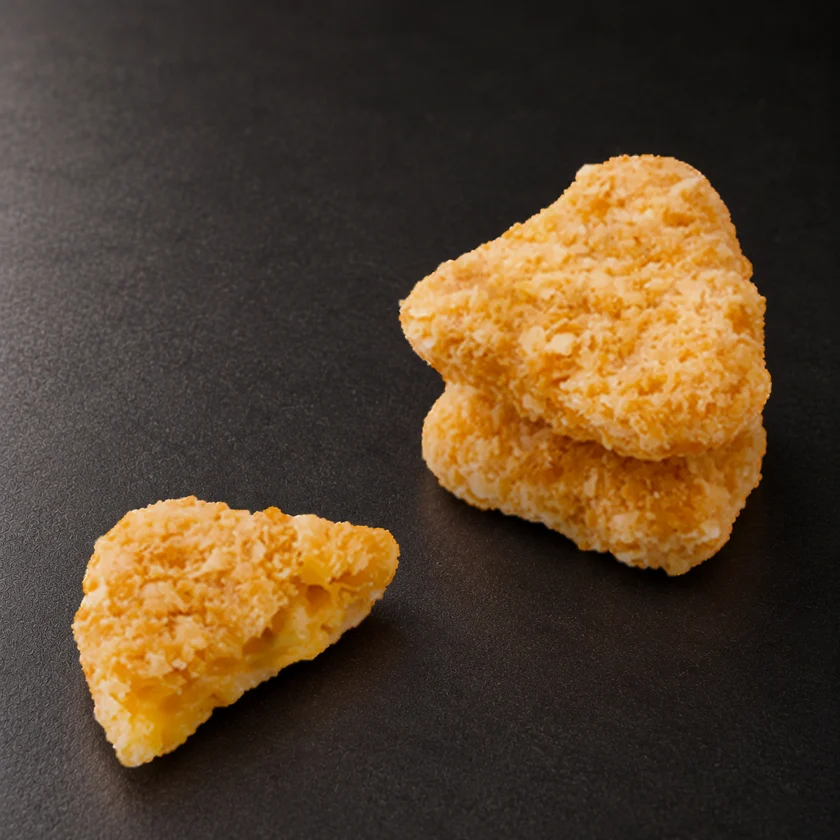
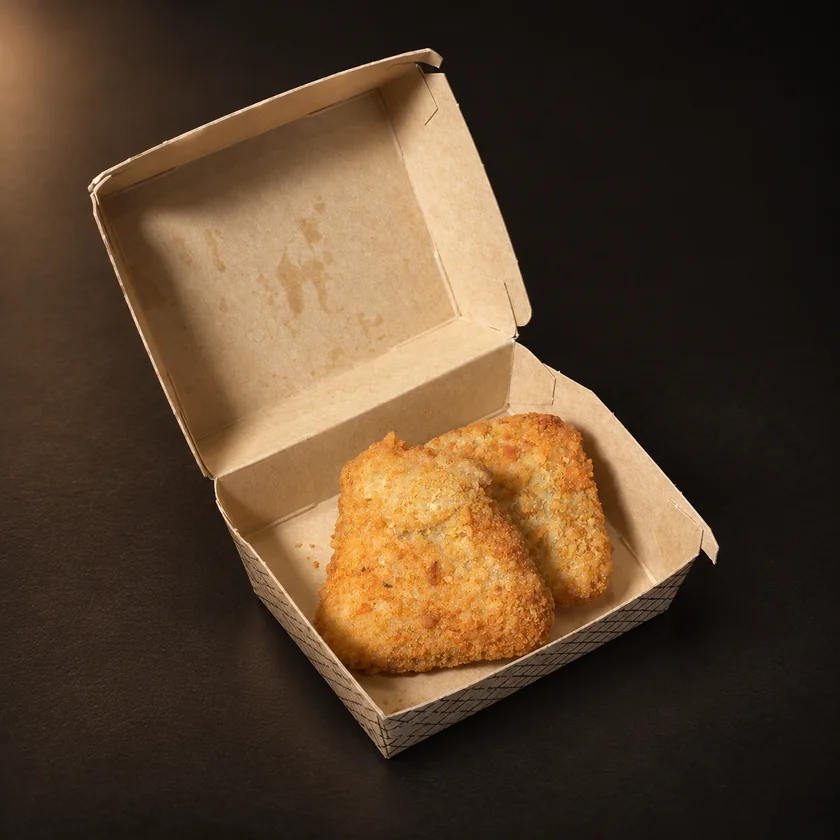
Add Sonora Burger, Latino to AED 39, new Cheese Nachos photo
Claude-Session: https://claude.ai/code/session_01593DdNt4ohMA5XQcDxVyGY

diff --git a/index.html b/index.html
@@ -390,7 +390,8 @@ const CATS=[
 const ADDONS=[{img:"caramelised-onion",n:["Caramelised onion","بصل مكرمل"]},{img:"jalapeno",n:["Jalapeño","هالبينو"]},{img:"extra-cheese",n:["Extra cheese","جبن إضافي"]}],ADDON_PRICE=3;
 const ITEMS=[
  {c:"burgers",img:"tiger-strike",nw:1,josper:1,p:42,n:["Tiger Strike","تايجر سترايك"],d:["Black Angus beef cooked in our Josper oven, with melted American cheese, fresh onions, tomato, lettuce and our special sauce in a charred bun.","لحم بلاك أنجوس مطهو في فرن جوسبر، مع جبن أمريكي ذائب، وبصل طازج، وطماطم، وخس، وصوصنا الخاص، في خبز محمّص على الفحم."]},
- {c:"burgers",img:"latino-burger",nw:1,josper:1,p:42,n:["Latino Burger","برجر لاتينو"],d:["Black Angus beef cooked in our Josper oven, with melted American cheese, tartar sauce and MOLT sauce.","لحم بلاك أنجوس مطهو في فرن جوسبر، مع جبن أمريكي ذائب، وصوص التارتار، وصوص مولت."]},
+ {c:"burgers",img:"latino-burger",nw:1,josper:1,p:39,n:["Latino Burger","برجر لاتينو"],d:["Black Angus beef cooked in our Josper oven, with melted American cheese, tartar sauce and MOLT sauce.","لحم بلاك أنجوس مطهو في فرن جوسبر، مع جبن أمريكي ذائب، وصوص التارتار، وصوص مولت."]},
+ {c:"burgers",img:"sonora-burger",nw:1,josper:1,p:39,n:["Sonora Burger","برجر سونورا"],d:["Black Angus beef patty cooked in our Josper oven, with melted American cheese, tomato relish and pickles, finished with our special sauce and chipotle sauce.","قطعة لحم بلاك أنجوس مطهوة في فرن جوسبر، مع جبن أمريكي ذائب، وريليش الطماطم، والمخلل، مع صوصنا الخاص وصوص الشيبوتلي."]},
  {c:"burgers",img:"smokey-beef",best:1,sizes:[39,49],n:["Smokey Burger Beef","برجر سموكي لحم"],add:1,d:["Black Angus beef grilled over a wood fire, finished with melted American cheese and our smoky sauce.","لحم بلاك أنجوس مشوي على نار الحطب، مع جبن أمريكي ذائب وصوص سموكي."]},
  {c:"burgers",img:"smokey-chicken",sizes:[39,49],n:["Smokey Burger Chicken","برجر سموكي دجاج"],add:1,d:["Chicken grilled over a wood fire, finished with melted American cheese and our smoky sauce.","دجاج مشوي على نار الحطب، مع جبن أمريكي ذائب وصوص سموكي."]},
  {c:"burgers",img:"flat-beef",p:39,add:1,n:["Flat Tasty Burger Beef","فلات تيستي برجر لحم"],d:["A thin slice of Black Angus with Texas special sauce and American cheese, toasted flat over the wood fire.","شريحة بلاك أنجوس رقيقة مع صوص تكساس الخاص والجبن الأمريكي، محمّصة على نار الحطب."]},
